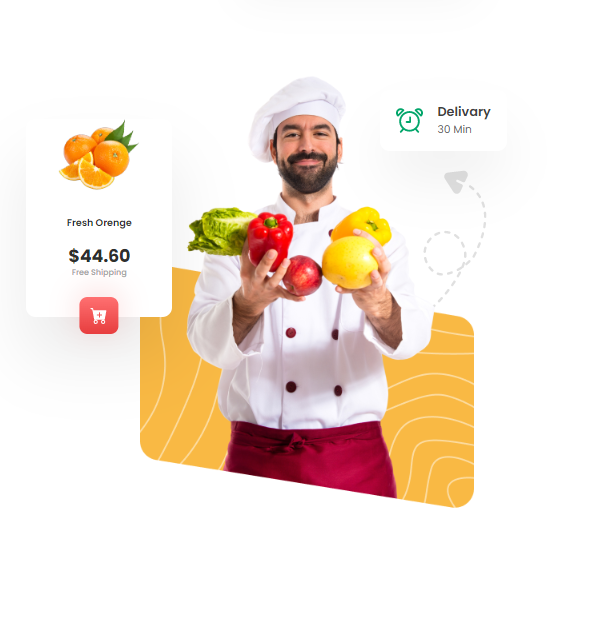
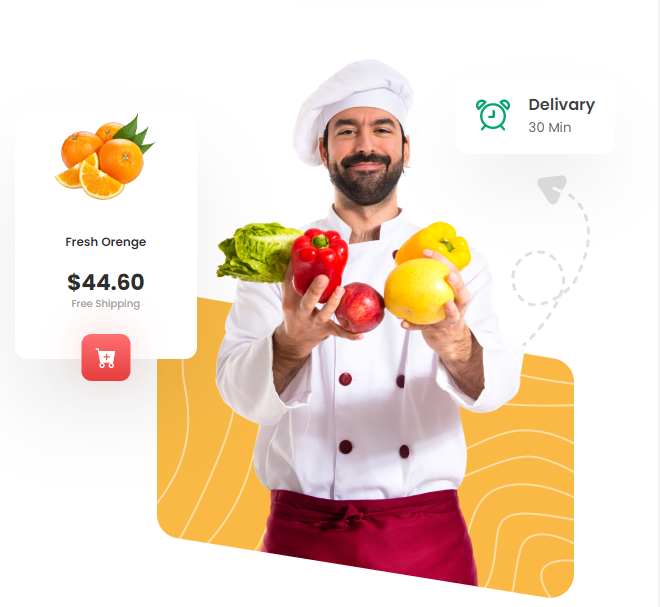
update

diff --git a/src/components/project/Project.jsx b/src/components/project/Project.jsx
@@ -4,32 +4,51 @@ import AnimatedLetters from "./../AnimatedLetters/index";
 import Card from "./../card/Card";
 import { Link } from "react-router-dom";
 import { motion } from "framer-motion";
+import minimog from "./../../assets/minimog.png";
+import okiro from "./../../assets/okairo.png";
+import grover from "./../../assets/grover.png";
+import portfolio from "./../../assets/portfolio.webp";
+import startbox from "./../../assets/start.png";
 
 const card = [
   {
     id: 1,
-    img: "https://tonu-next-light.netlify.app/_next/image?url=%2F_next%2Fstatic%2Fmedia%2Fimg-1.7f344d00.jpg&w=640&q=75",
+    img: minimog,
     title: "",
     subTitle: "Minimog",
     path: "https://minimog.netlify.app/",
   },
   {
     id: 2,
-    img: "https://tonu-next-light.netlify.app/_next/image?url=%2F_next%2Fstatic%2Fmedia%2Fimg-2.1458bc21.jpg&w=640&q=75",
+    img: okiro,
     title: "",
     subTitle: "Okiro",
     path: "https://okario.netlify.app",
   },
   {
     id: 3,
-    img: "https://tonu-next-light.netlify.app/_next/image?url=%2F_next%2Fstatic%2Fmedia%2Fimg-3.e28a6618.jpg&w=640&q=75",
+    img: grover,
     title: "",
     subTitle: "Grover Store",
     path: "https://groverstore.netlify.app",
   },
   {
     id: 4,
+    img: portfolio,
+    title: "",
+    subTitle: "portfolio V2",
+    path: "https://sakilsahmed.netlify.app/",
+  },
+  {
+    id: 5,
     img: "https://tonu-next-light.netlify.app/_next/image?url=%2F_next%2Fstatic%2Fmedia%2Fimg-6.6ac3b5b1.jpg&w=640&q=75",
+    title: "",
+    subTitle: "Start Box",
+    path: "https://startbox.netlify.app",
+  },
+  {
+    id: 6,
+    img: startbox,
     title: "",
     subTitle: "Start Box",
     path: "https://startbox.netlify.app",

diff --git a/src/components/card/Card.scss b/src/components/card/Card.scss
@@ -1,19 +1,17 @@
 .card__box {
   position: relative;
-  width: 265px;
-  height: 305px;
+  width: 334px;
+  height: 334px;
   overflow: hidden;
-  a {
-    position: absolute;
-    top: 0;
-    bottom: 0;
-    left: 0;
-    right: 0;
-    z-index: 1;
-  }
-
+  box-shadow: rgba(50, 50, 93, 0.25) 0px 50px 100px -20px,
+    rgba(0, 0, 0, 0.3) 0px 30px 60px -30px;
+  border-radius: 5px;
   .card__thumbnail {
     transition: all 0.3s cubic-bezier(0, 0, 0.2, 1);
+    img {
+      width: 100%;
+      height: 100%;
+    }
   }
 
   .card__content {
@@ -31,6 +29,18 @@
     h3,
     p {
       color: #fff;
+    }
+    .icons {
+      display: flex;
+      gap: 10px;
+      margin-top: 10px;
+      a {
+        color: #fff;
+        transition: all 0.3s cubic-bezier(0, 0, 0.2, 1);
+        &:hover {
+          color: rgb(0, 192, 255);
+        }
+      }
     }
   }
   &:hover {

diff --git a/src/components/card/Card.jsx b/src/components/card/Card.jsx
@@ -1,16 +1,25 @@
 import React from "react";
 import "./Card.scss";
+import { HiEye } from "react-icons/hi";
+import { AiFillGithub } from "react-icons/ai";
 
-const Card = ({ item: { img, subTitle, path } }) => {
+const Card = ({ item: { img, subTitle, path, git } }) => {
   return (
     <div className="card__box">
-      <a href={path} target="_blank"></a>
       <div className="card__thumbnail">
         <img src={img} alt="Project Thumbnail" />
       </div>
       <div className="card__content">
         <h3>Website Development</h3>
         <p>{subTitle}</p>
+        <div className="icons">
+          <a href={path} target="_blank">
+            <HiEye size={"25px"} />
+          </a>
+          <a href={git} target="_blank">
+            <AiFillGithub size={"25px"} />
+          </a>
+        </div>
       </div>
     </div>
   );

diff --git a/src/index.scss b/src/index.scss
@@ -24,6 +24,24 @@ body {
   font-family: "Josefin Sans", sans-serif;
 }
 
+::-webkit-scrollbar {
+  height: 8px;
+  width: 8px;
+  background: #687693;
+  // -webkit-border-radius: 1ex;
+  box-shadow: rgba(17, 17, 26, 0.1) 0px 8px 24px,
+    rgba(17, 17, 26, 0.1) 0px 16px 56px, rgba(17, 17, 26, 0.1) 0px 24px 80px;
+}
+
+::-webkit-scrollbar-thumb {
+  background: #d6d6d6;
+  -webkit-border-radius: 1ex;
+}
+
+// ::-webkit-scrollbar-corner {
+//   background: #fff3;
+// }
+
 img,
 picture,
 video,

diff --git a/src/App.jsx b/src/App.jsx
@@ -16,6 +16,7 @@ function App() {
         <Route index element={<Home />} />
         <Route path="/work" element={<Work />} />
       </Routes>
+      ,
     </div>
   );
 }
